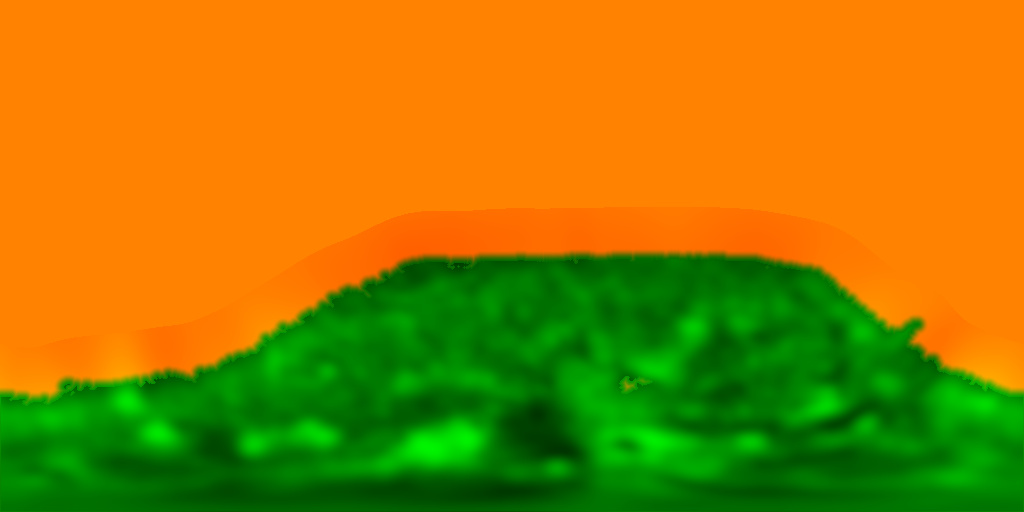
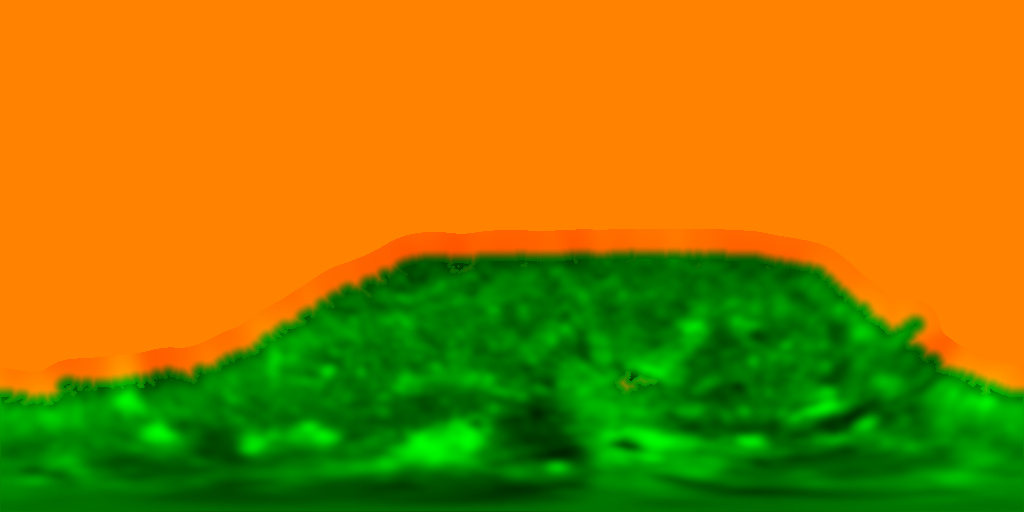
AST-381-03 iter 2: regional rim rule (0.65× local mean), finer 3.5° guide + 5° feather, detail amplitude calibrated to rendered observed/recon contrast ratio

diff --git a/src/data/catalog.ts b/src/data/catalog.ts
@@ -161,11 +161,11 @@ export const CATALOG: BodyDef[] = [
   // ── Uranus ───────────────────────────────────────────────────────────────
   { id: 'miranda', name: 'Miranda', kind: 'moon', parent: 'uranus', radius: 235.8, albedo: 0.32, color: [0.66, 0.66, 0.66], procedural: { seed: 3, craters: 0.6, rough: 0.8, tint: [0.66, 0.66, 0.67] }, rot: 'miranda', priority: 60,
     subtitle: 'The patchwork moon', desc: 'Grooved coronae and Verona Rupes — a cliff about 20 km tall — make it look shattered and reassembled.' },
-  { id: 'ariel', name: 'Ariel', kind: 'moon', parent: 'uranus', radius: 578.9, albedo: 0.53, color: [0.7, 0.7, 0.7], tex: 'ariel', rot: 'ariel', noData: { recon: true, detail: 0.39, threshold: 0.006, fraction: 0.617, note: 'Voyager 2 (1986) imaged only the sunlit southern hemisphere (USGS Voyager mosaic via NASA/JPL, v3.8.1); the black part of the source mosaic is UNOBSERVED and is shown here as a labelled procedural reconstruction. Colour is the disc-integrated tint applied to clear-filter greyscale.' }, procedural: { seed: 311, craters: 0.9, rough: 0.35 }, priority: 62, subtitle: 'The brightest Uranian moon', desc: 'A young, bright surface cut by long canyons with signs of past ice volcanism.' },
+  { id: 'ariel', name: 'Ariel', kind: 'moon', parent: 'uranus', radius: 578.9, albedo: 0.53, color: [0.7, 0.7, 0.7], tex: 'ariel', rot: 'ariel', noData: { recon: true, detail: 0.47, threshold: 0.006, fraction: 0.617, note: 'Voyager 2 (1986) imaged only the sunlit southern hemisphere (USGS Voyager mosaic via NASA/JPL, v3.8.1); the black part of the source mosaic is UNOBSERVED and is shown here as a labelled procedural reconstruction. Colour is the disc-integrated tint applied to clear-filter greyscale.' }, procedural: { seed: 311, craters: 0.9, rough: 0.35 }, priority: 62, subtitle: 'The brightest Uranian moon', desc: 'A young, bright surface cut by long canyons with signs of past ice volcanism.' },
   { id: 'umbriel', name: 'Umbriel', kind: 'moon', parent: 'uranus', radius: 584.7, albedo: 0.26, color: [0.4, 0.4, 0.41], procedural: { seed: 5, craters: 1, rough: 0.4, tint: [0.38, 0.38, 0.39], spot: [0.75, 0.75, 0.75] }, rot: 'umbriel', priority: 60,
     subtitle: 'The darkest Uranian moon', desc: 'An old, dark, heavily cratered surface marked by a mysterious bright ring, Wunda, near its equator.' },
-  { id: 'titania', name: 'Titania', kind: 'moon', parent: 'uranus', radius: 788.9, albedo: 0.35, color: [0.6, 0.58, 0.56], tex: 'titania', rot: 'titania', noData: { recon: true, detail: 0.43, threshold: 0.006, fraction: 0.63, note: 'Voyager 2 (1986) imaged only the sunlit southern hemisphere (USGS Voyager mosaic via NASA/JPL, v3.8.1); the black part of the source mosaic is UNOBSERVED and is shown here as a labelled procedural reconstruction. Colour is the disc-integrated tint applied to clear-filter greyscale.' }, procedural: { seed: 313, craters: 0.9, rough: 0.35 }, priority: 62, subtitle: 'The largest moon of Uranus', desc: 'Fault valleys up to 1,500 km long suggest its interior expanded as water froze.' },
-  { id: 'oberon', name: 'Oberon', kind: 'moon', parent: 'uranus', radius: 761.4, albedo: 0.31, color: [0.52, 0.48, 0.46], tex: 'oberon', rot: 'oberon', noData: { recon: true, detail: 0.4, threshold: 0.006, fraction: 0.618, note: 'Voyager 2 (1986) imaged only the sunlit southern hemisphere (USGS Voyager mosaic via NASA/JPL, v3.8.1); the black part of the source mosaic is UNOBSERVED and is shown here as a labelled procedural reconstruction. Colour is the disc-integrated tint applied to clear-filter greyscale.' }, procedural: { seed: 317, craters: 0.9, rough: 0.35 }, priority: 62, subtitle: 'The outermost major Uranian moon', desc: 'Ancient, cratered and reddish, with dark material pooled on crater floors and a mountain rising 11 km.' },
+  { id: 'titania', name: 'Titania', kind: 'moon', parent: 'uranus', radius: 788.9, albedo: 0.35, color: [0.6, 0.58, 0.56], tex: 'titania', rot: 'titania', noData: { recon: true, detail: 0.86, threshold: 0.006, fraction: 0.63, note: 'Voyager 2 (1986) imaged only the sunlit southern hemisphere (USGS Voyager mosaic via NASA/JPL, v3.8.1); the black part of the source mosaic is UNOBSERVED and is shown here as a labelled procedural reconstruction. Colour is the disc-integrated tint applied to clear-filter greyscale.' }, procedural: { seed: 313, craters: 0.9, rough: 0.35 }, priority: 62, subtitle: 'The largest moon of Uranus', desc: 'Fault valleys up to 1,500 km long suggest its interior expanded as water froze.' },
+  { id: 'oberon', name: 'Oberon', kind: 'moon', parent: 'uranus', radius: 761.4, albedo: 0.31, color: [0.52, 0.48, 0.46], tex: 'oberon', rot: 'oberon', noData: { recon: true, detail: 0.43, threshold: 0.006, fraction: 0.62, note: 'Voyager 2 (1986) imaged only the sunlit southern hemisphere (USGS Voyager mosaic via NASA/JPL, v3.8.1); the black part of the source mosaic is UNOBSERVED and is shown here as a labelled procedural reconstruction. Colour is the disc-integrated tint applied to clear-filter greyscale.' }, procedural: { seed: 317, craters: 0.9, rough: 0.35 }, priority: 62, subtitle: 'The outermost major Uranian moon', desc: 'Ancient, cratered and reddish, with dark material pooled on crater floors and a mountain rising 11 km.' },
   // ── Neptune ──────────────────────────────────────────────────────────────
   { id: 'triton', name: 'Triton', kind: 'moon', parent: 'neptune', radius: 1352.6, albedo: 0.72, color: [0.85, 0.8, 0.76], tex: 'triton', texHi: true, rot: 'triton', noData: { recon: true, detail: 0.35, threshold: 0.0018, fraction: 0.33, note: 'Voyager 2 (1989) imaged mainly the southern hemisphere — the black part of the USGS source mosaic is UNOBSERVED and is shown as a labelled procedural reconstruction (v3.4: v3.3 used a third-party mosaic that silently painted invented terrain there).' }, procedural: { seed: 401, craters: 0.15, rough: 0.2 }, priority: 75,
     // v3.7 Triton: 14 µbar N₂ (Rayleigh negligible); thin haze τ ≈ 0.003–0.01 below ≈ 30 km (Voyager 2, Pollack et al. 1990)

diff --git a/tools/ingest/uranian_jpl.py b/tools/ingest/uranian_jpl.py
@@ -39,6 +39,11 @@ for name, (f, col) in BODIES.items():
     med = float(np.median(g[~nodata]))
     near = ndimage.binary_dilation(nodata, iterations=10)
     nodata = ndimage.binary_dilation(nodata, iterations=3) | (near & (g < 0.45 * med))
+    # REV2-02: also drop rim pixels darker than 0.65× their REGIONAL (≈2°) observed mean — the terminator fall-off varies
+    # along the edge, so a single global threshold left a dark line on parts of Titania and Oberon
+    obs = ~nodata; sig = 8.0
+    reg = ndimage.gaussian_filter(np.where(obs, g, 0), sig, mode=('reflect', 'wrap')) / np.maximum(ndimage.gaussian_filter(obs.astype(float), sig, mode=('reflect', 'wrap')), 1e-6)
+    nodata = nodata | (ndimage.binary_dilation(nodata, iterations=8) & (g < 0.65 * reg))
     c = np.array(col) / (0.2126 * col[0] + 0.7152 * col[1] + 0.0722 * col[2])     # luminance-normalised tint
     rgb = lin(g)[..., None] * c[None, None, :]
     rgb[nodata] = 0

diff --git a/tools/ingest/partial_recon.py b/tools/ingest/partial_recon.py
@@ -23,7 +23,7 @@ from PIL import Image
 from scipy import ndimage
 ROOT = os.path.join(os.path.dirname(__file__), '..', '..')
 W, H = 1024, 512
-FEATHER_DEG, SIGMA_DEG, RELAX_DEG = 4.0, 6.0, 35.0
+FEATHER_DEG, SIGMA_DEG, RELAX_DEG = 5.0, 3.5, 35.0   # REV2-02 iteration 2: finer regional guide (6° → 3.5°), wider feather
 BODIES = {'ariel': 0.0018 * 0 + 1.5 / 255, 'titania': 1.5 / 255, 'oberon': 1.5 / 255, 'triton': 3 / 255, 'pluto': 3 / 255, 'charon': 3 / 255}
 lin = lambda a: np.where(a <= 0.04045, a / 12.92, ((a + 0.055) / 1.055) ** 2.4)
 enc = lambda a: np.where(a <= 0.0031308, a * 12.92, 1.055 * np.power(np.clip(a, 0, None), 1 / 2.4) - 0.055)
